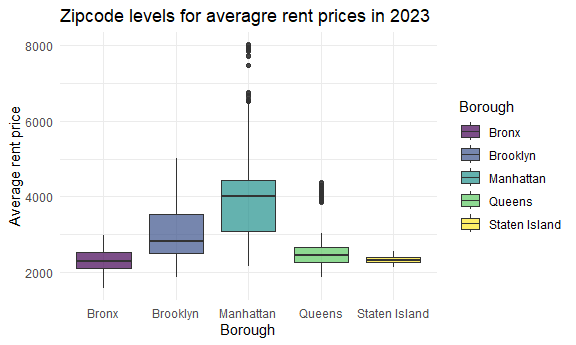
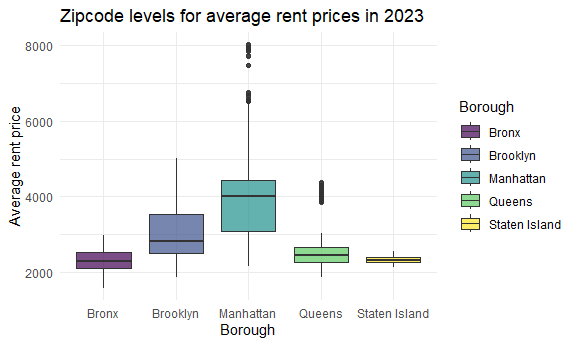
minor edits

Changed region(s): [[0.4375, 0.029, 0.75, 0.087]]

diff --git a/p8105_hw3_ei2291.md b/p8105_hw3_ei2291.md
@@ -15,7 +15,7 @@ groceries online through instacart. It tells us what they ordered etc.
 The dataset has 1,384,617 observations and 15 variables.Since each row
 in this dataset shows a product with a user’s order, Some key variables
 are `user_id`. `product_id`, `order_id`, `order_number`, `aisle`,
-`product_name`, `order_number`.
+`product_name`, `order_dow`, `order_hour_of_day`.
 
 ``` r
 head(instacart,5)
@@ -74,7 +74,7 @@ instacart |>
   theme_minimal()
 ```
 
-<img src="p8105_hw3_ei2291_files/figure-gfm/unnamed-chunk-4-1.png" width="90%" />
+<img src="p8105_hw3_ei2291_files/figure-gfm/aisle_plot-1.png" width="90%" />
 
 Table showing top 3 items in the selected aisles:
 
@@ -140,6 +140,10 @@ instacart |>
 | Pink Lady Apples |  13.44 |  11.36 |   11.70 |     14.25 |    11.55 |  12.78 |    11.94 |
 
 ## Problem 2
+
+``` r
+library(lubridate)
+```
 
 Import and clean dataset
 
@@ -306,13 +310,13 @@ he highest rent followed by Brooklyn and Queens.
 
 ``` r
 combined_df |> 
-  filter(year(date) ==2023) |> 
+  filter(lubridate::year(date) ==2023) |> 
   group_by(zip_code, county, date) |> 
   summarize(avg_rent = mean(zori, na.rm=TRUE), .groups="drop") |> 
   ggplot(aes(x=county, y=avg_rent, fill=county))+
   geom_boxplot(alpha=0.7)+
   labs(
-    title = "Zipcode levels for averagre rent prices in 2023",
+    title = "Zipcode levels for average rent prices in 2023",
     x = "Borough",
     y = "Average rent price",
     fill = "Borough"
@@ -505,7 +509,7 @@ nhanes_total =
 nhanes_total |> 
   ggplot(aes(x=age, y=tot_MIMS, color =sex))+
   geom_point(alpha=0.6) +
-  geom_smooth(Se = FALSE, method = "loess")+
+  geom_smooth(se = FALSE, method = "loess")+
   facet_wrap(~education)+
   labs(
     title = "Total daily activity vs age by sex and education",
@@ -515,9 +519,6 @@ nhanes_total |>
   )+
   theme_minimal()
 ```
-
-    ## Warning in geom_smooth(Se = FALSE, method = "loess"): Ignoring unknown
-    ## parameters: `Se`
 
     ## `geom_smooth()` using formula = 'y ~ x'
 
@@ -540,13 +541,8 @@ daily activity gradually decreases.
 nhanes_minute =
   nhanes_combined |> 
   group_by(minute, sex, education) |> 
-  summarize(mean_MIMS = round(mean(MIMS, na.rm = TRUE), 2), .group="drop")
-```
+  summarize(mean_MIMS = round(mean(MIMS, na.rm = TRUE), 2), .groups = "drop")
 
-    ## `summarise()` has grouped output by 'minute', 'sex'. You can override using the
-    ## `.groups` argument.
-
-``` r
 nhanes_minute |> 
   ggplot(aes(x=minute, y= mean_MIMS, color =sex)) +
   geom_line (alpha=0.8)+
